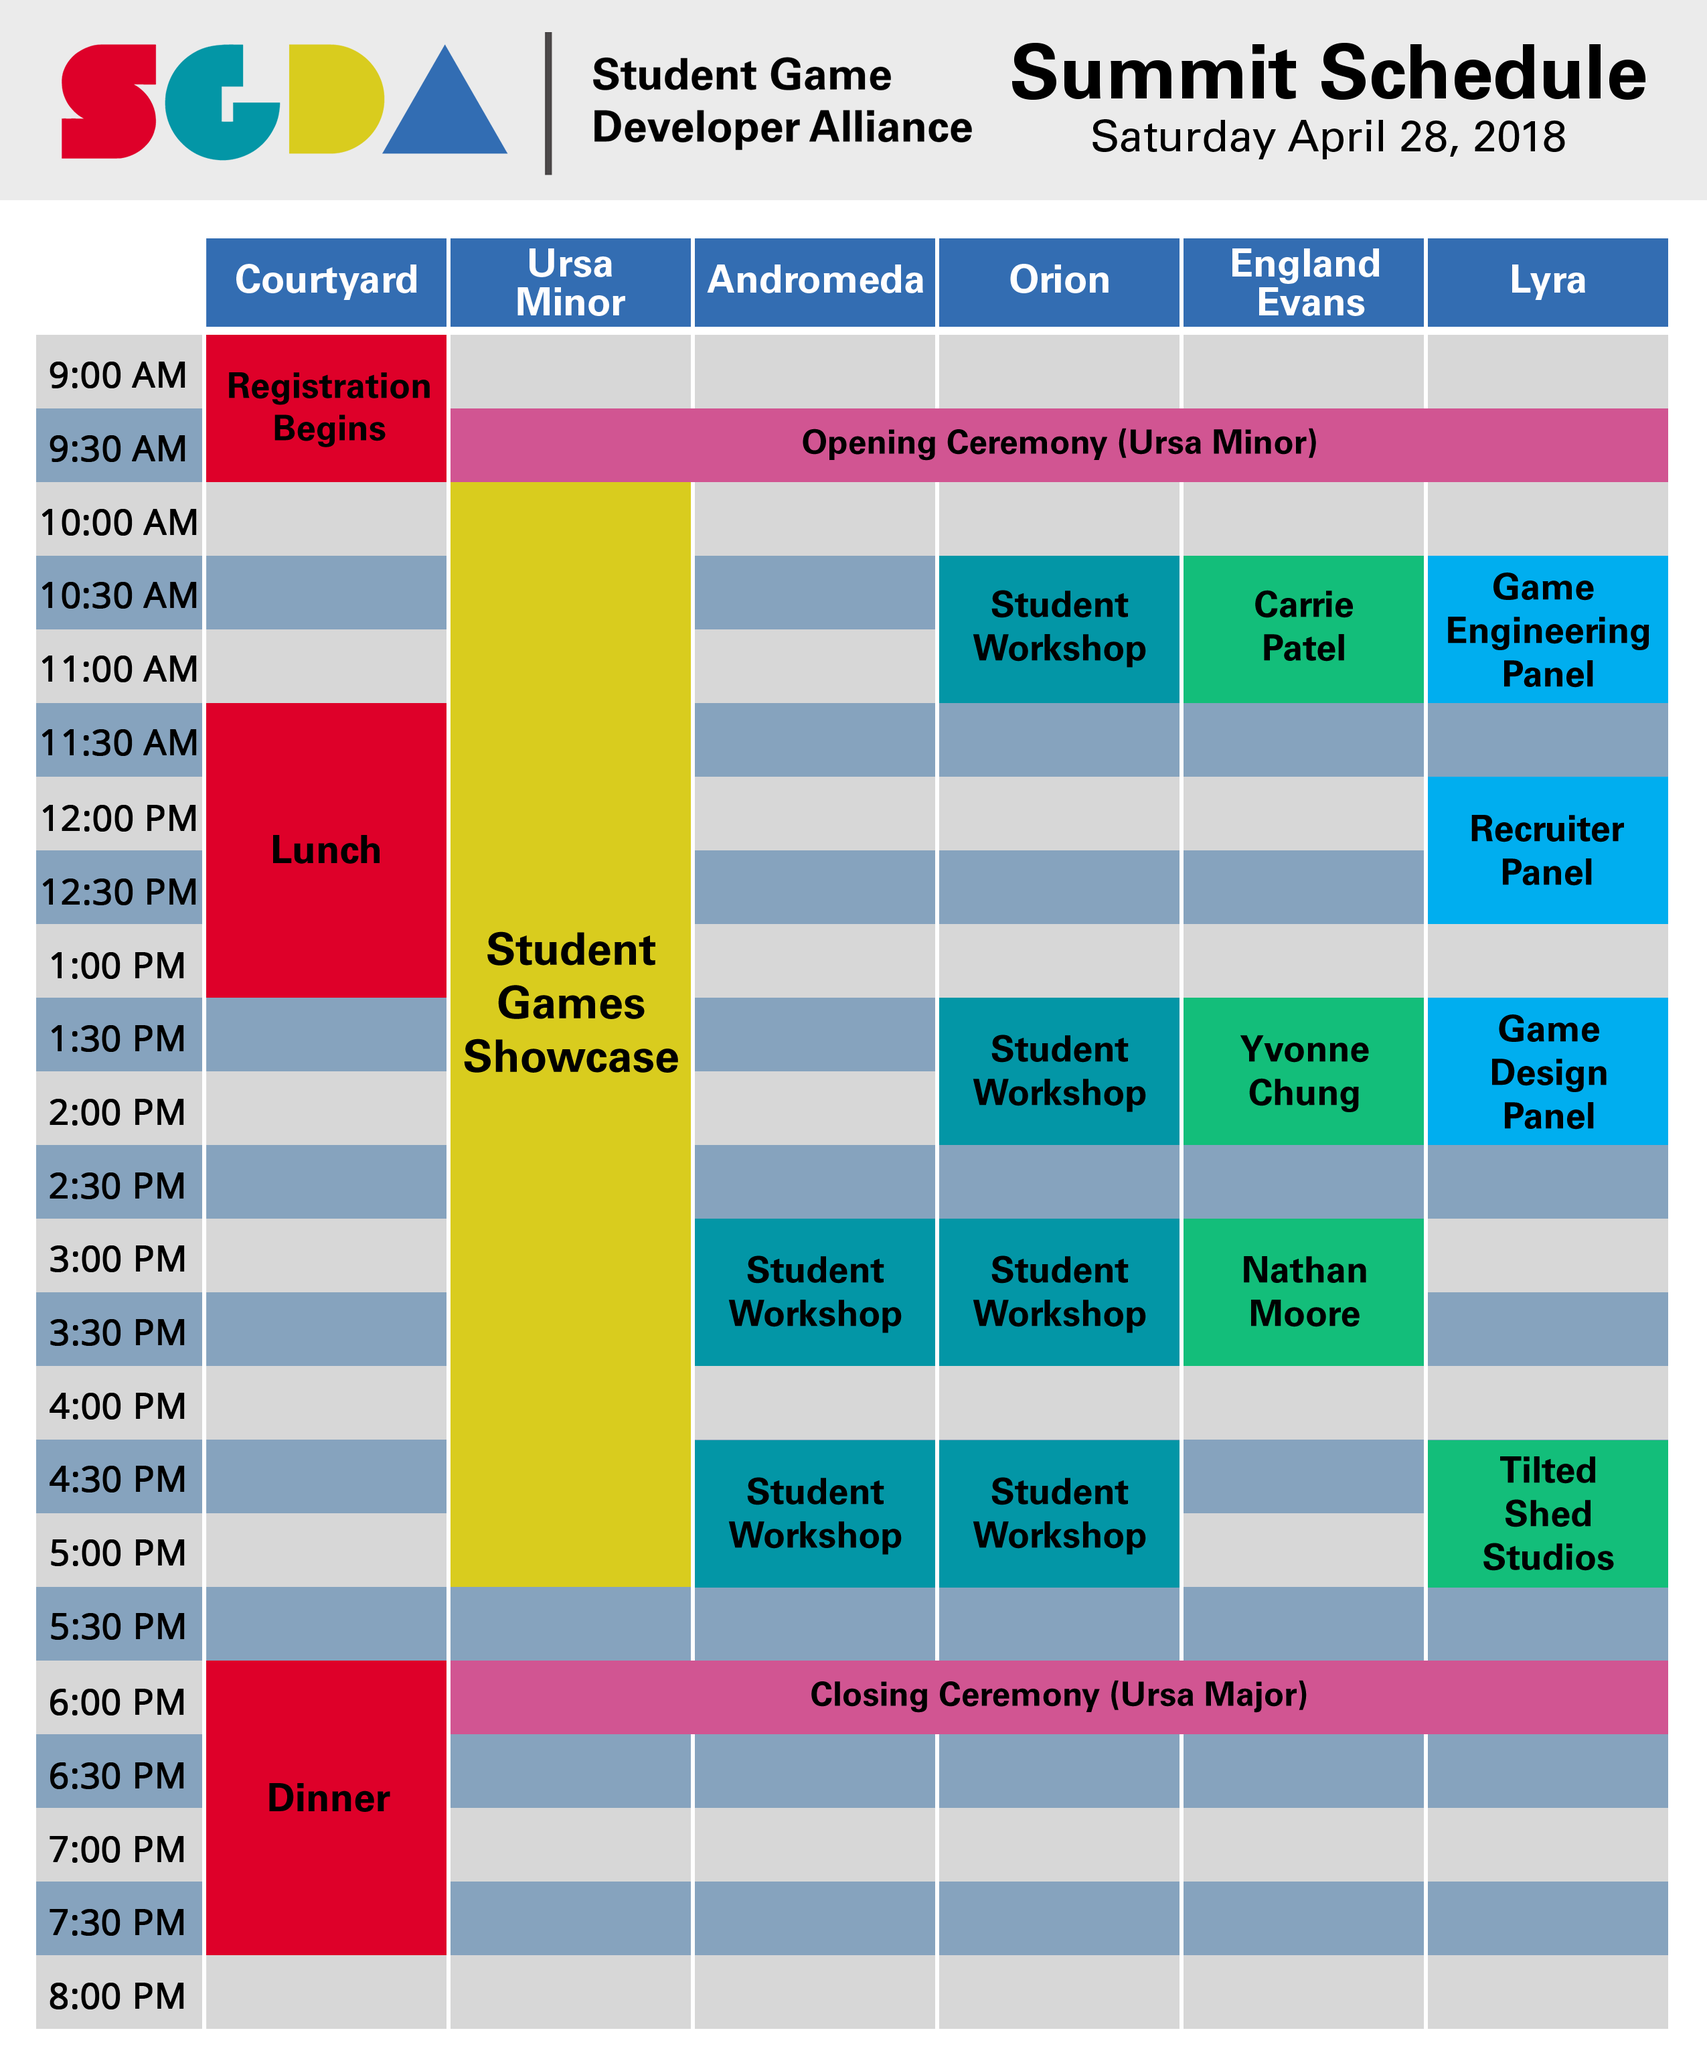
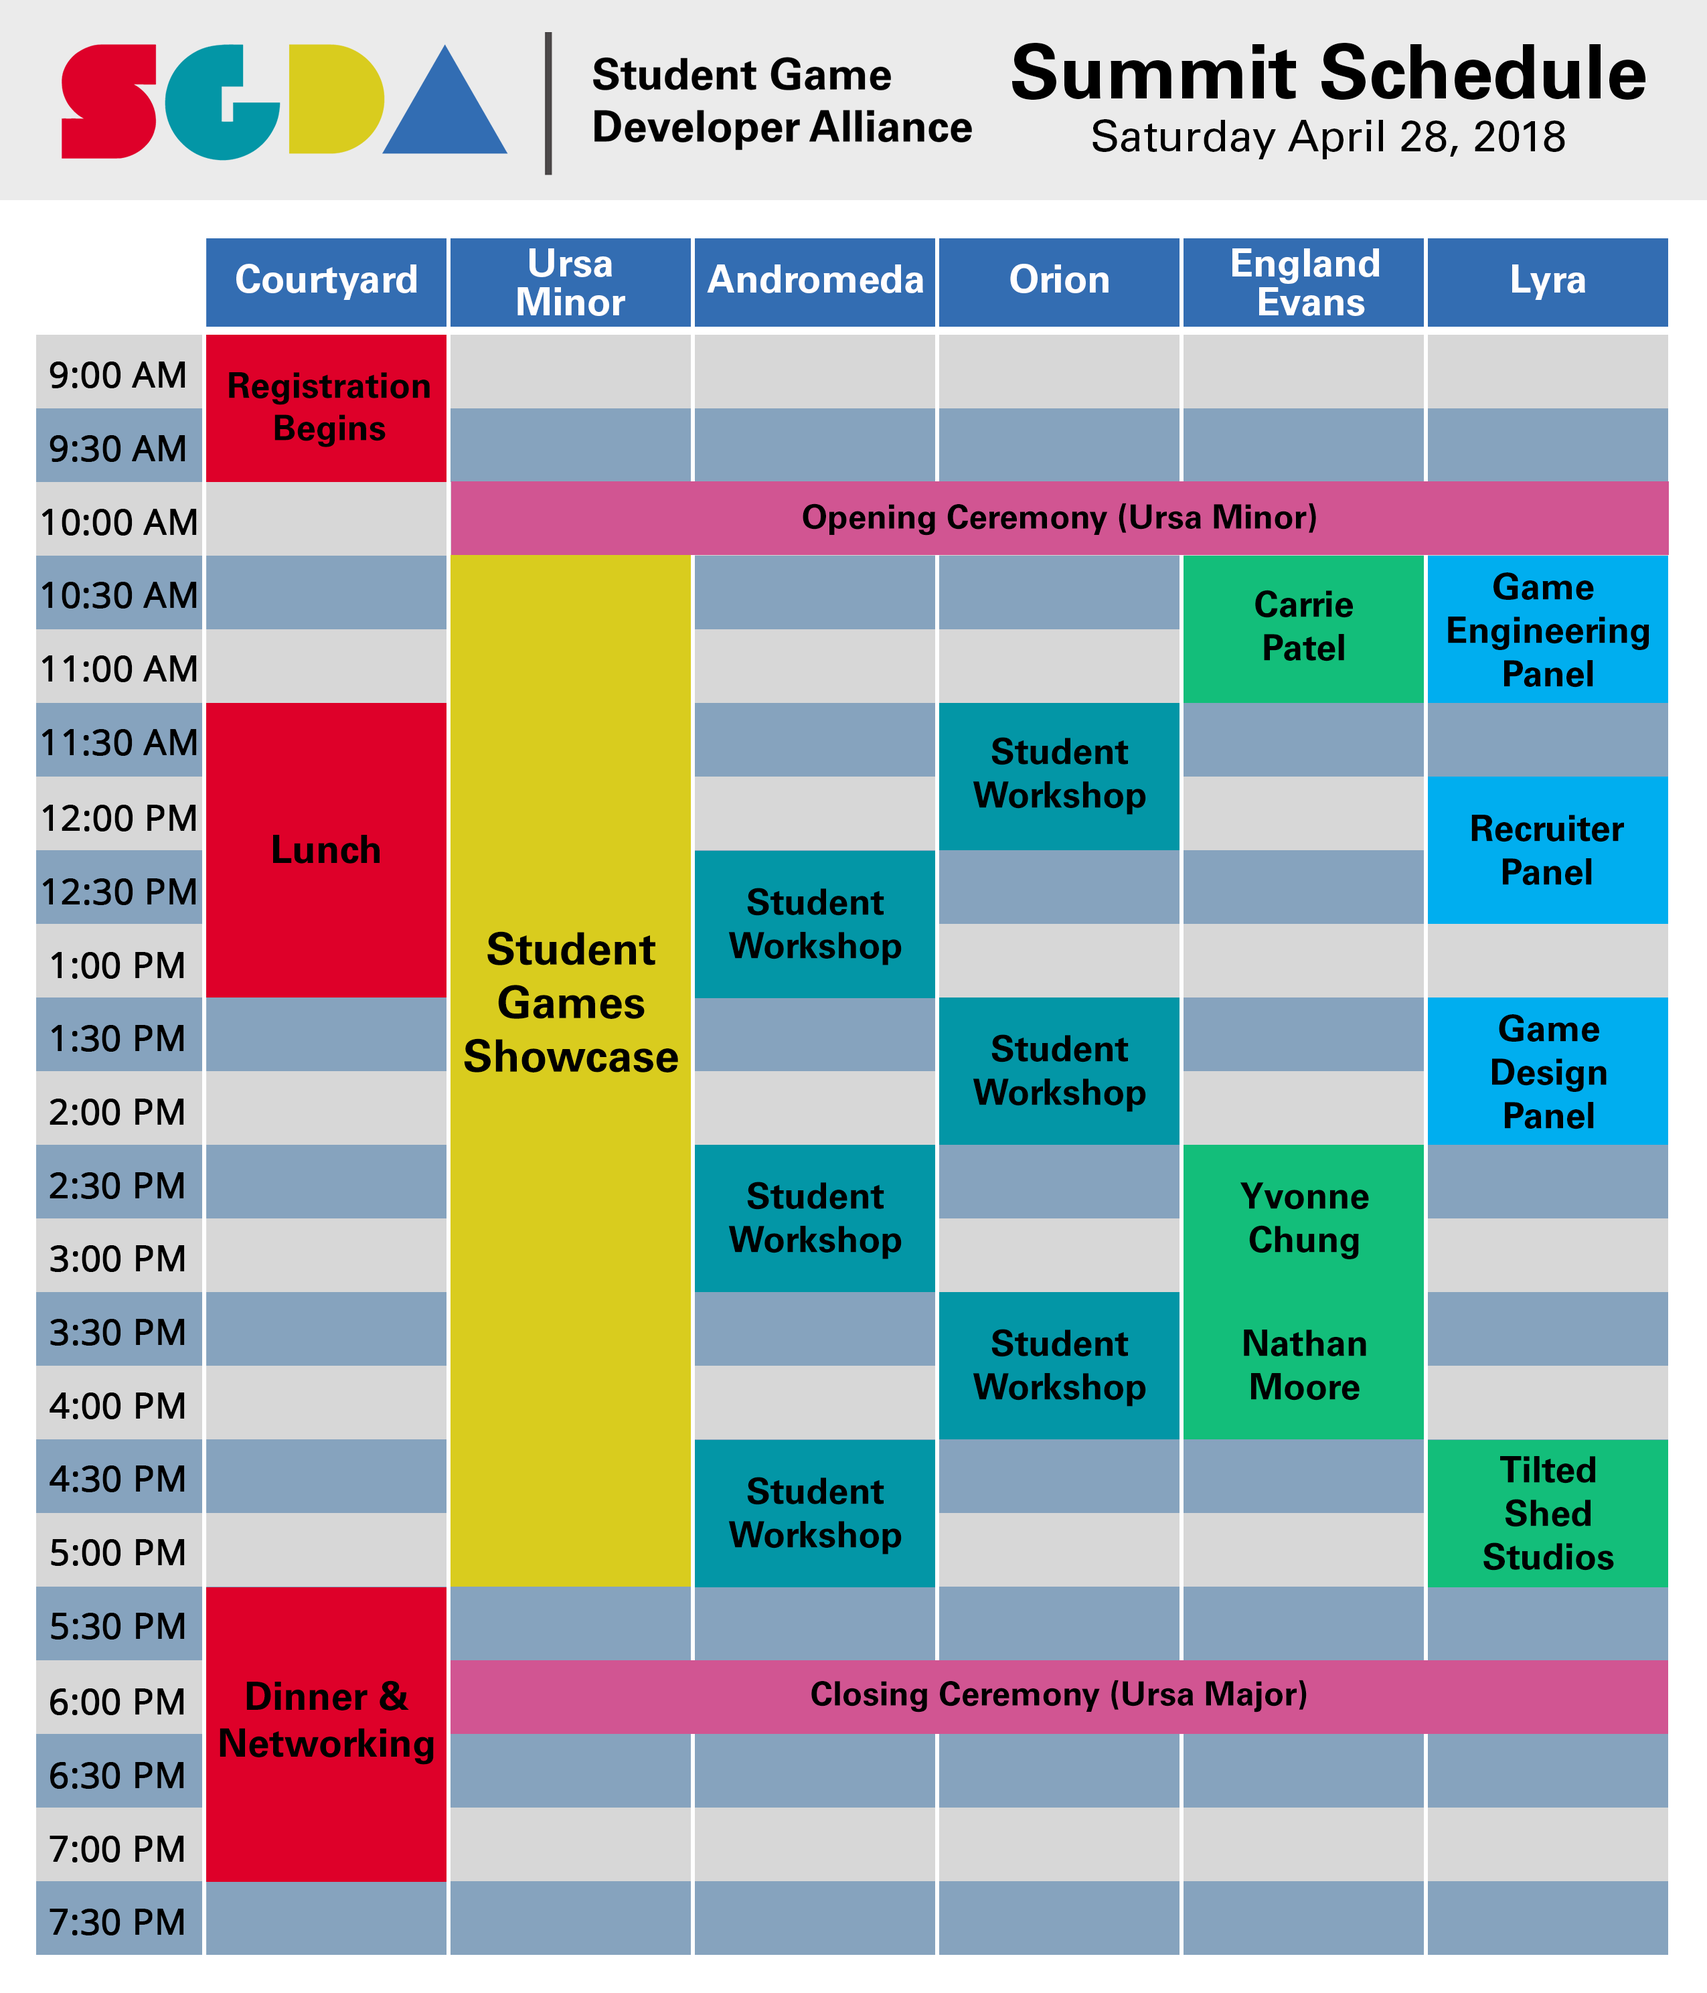
Added additional speaker info

diff --git a/speakers.html b/speakers.html
@@ -158,10 +158,10 @@
               </a>
             </div>
             <div class="col-md-3 col-5 d-block mx-auto">
-              <img src="img/speakers/anon_female.png" class="img-fluid p-2" alt="">
+              <img src="img/speakers/rachelle_davis.png" class="img-fluid p-2" alt="">
             </div>
             <div class="col-md-3 col-5 d-block mx-auto">
-              <img src="img/speakers/anon_male.png" class="img-fluid p-2" alt="">
+              <img src="img/speakers/tim_ford.png" class="img-fluid p-2" alt="">
             </div>
             <!--Carousel Event-->
             <div class="col-12">
@@ -205,13 +205,13 @@
                     </p>
                   </div>
                 </div>
-                <a class="carousel-control-prev" href="#carouselExampleControls" role="button" data-slide="prev">
+                <a class="carousel-control-prev" href="#carouselExampleControls" role="button" data-slide="prev" style="height: 50px">
                    <span>
                     <i class="fa fa-caret-left fa-3x"></i>
                   </span>
                   <span class="sr-only">Previous</span>
                 </a>
-                <a class="carousel-control-next" href="#carouselExampleControls" role="button" data-slide="next">
+                <a class="carousel-control-next" href="#carouselExampleControls" role="button" data-slide="next" style="height: 50px">
                   <!--<span class="carousel-control-next-icon" aria-hidden="true"></span>-->
                   <span>
                     <i class="fa fa-caret-right fa-3x"></i>
@@ -233,14 +233,48 @@
               </h6>
               <h6>
                 <b>Time:</b>
-                <span class="speaker-info ml-3">TBA</span>
+                <span class="speaker-info ml-3">10:30 AM - 11:30 AM</span>
               </h6>
 
             </div>
           </div>
         </div> <!-- .inner-outline -->
       </div> <!-- .speaker-card -->
-        
+
+<!--Speaker Card-->
+      <div class="speaker-card p-2 mt-4 mb-3 m-2 text-center col-lg-10 mx-auto  filter design">
+        <div class="inner-outline p-3" id="speaker">
+          <!--Speaker 1-->
+          <h4 class="text-center font-weight-bold"><i class="fa fa-quote-left"></i> Fundamentals of Branching Dialogue <i class="fa fa-quote-right"></i></h4>
+          <div class="row">
+            <div class="col-md-4 col-6 d-block mx-auto">
+              <img src="img/speakers/carrie_patel.png" class="img-fluid p-2" alt="">
+            </div>
+            <div class="col-12">
+              <h5 class="font-weight-bold mt-2 mb-1">Carrie Patel</h5>
+              <h6 class="font-weight-bold">(Novelist | Narrative Designer - Obsidian Entertainment)</h6>
+              <p class="speaker-info">Carrie Patel is a narrative designer and writer at Obsidian Entertainment, where she is currently Narrative Co-Lead on Pillars of Eternity II: Deadfire. Her writing credits include the Writers Guild of America-nominated Pillars of Eternity, the White March expansions, and Pillars of Eternity II: Deadfire.
+                  
+              She is also a novelist and the author of the science fantasy Recoletta trilogy, which includes The Buried Life, Cities and Thrones, and The Song of the Dead. Her short fiction has appeared in PodCastle and Beneath Ceaseless Skies.</p>
+                
+              <h6 class="font-weight-bold">DESCRIPTION</h6>
+              <p class="speaker-info">Branching dialogue is a staple of many RPGS, and one that allows designers to present players with gameplay choices, offer options for players' personal expression, and create a stronger sense of a player-driven story.
+                  
+              But authoring dialogue trees is complicated. Writers and designers must balance player freedom against the limits of scope, and they must present a consistent through-line even while offering players multiple avenues for navigating a dialogue.
+                  
+              This presentation will cover the basics of branching dialogue: why it's a useful design feature, how to implement it well, and what to look out for.</p>
+              <h6>
+                <b>Room:</b> <span class="speaker-info ml-2">England Evans</span>
+              </h6>
+              <h6>
+                <b>Time:</b>
+                <span class="speaker-info ml-3">10:30 AM - 11:30 AM</span>
+              </h6>
+            </div>
+          </div>
+        </div> <!-- .inner-outline -->
+      </div> <!-- .speaker-card -->
+
       <!--Speaker Card-->
       <div class="speaker-card p-2 mt-4 mb-3 m-2 text-center col-lg-10 mx-auto  filter design">
         <div class="inner-outline p-3" id="speaker">
@@ -260,10 +294,10 @@
               </a>
             </div>
             <div class="col-md-3 col-5 d-block mx-auto">
-              <img src="img/speakers/anon_female.png" class="img-fluid p-2" alt="">
+              <img src="img/speakers/benson_russel.png" class="img-fluid p-2" alt="">
             </div>
             <div class="col-md-3 col-5 d-block mx-auto">
-              <img src="img/speakers/anon_male.png" class="img-fluid p-2" alt="">
+              <img src="img/speakers/craig_brown.png" class="img-fluid p-2" alt="">
             </div>
             <!--Carousel Event-->
             <div class="col-12">
@@ -300,13 +334,13 @@
                       Her short fiction has appeared in PodCastle and Beneath Ceaseless Skies.</p>
                   </div>
                 </div>
-                <a class="carousel-control-prev mt-5" href="#carouselExampleControls-2" role="button" data-slide="prev">
+                <a class="carousel-control-prev" href="#carouselExampleControls-2" role="button" data-slide="prev" style="height: 50px">
                   <span>
                     <i class="fa fa-caret-left fa-3x"></i>
                   </span>
                   <span class="sr-only">Previous</span>
                 </a>
-                <a class="carousel-control-next mt-5" href="#carouselExampleControls-2" role="button" data-slide="next">
+                <a class="carousel-control-next" href="#carouselExampleControls-2" role="button" data-slide="next" style="height: 50px">
                    <span>
                     <i class="fa fa-caret-right fa-3x"></i>
                   </span>
@@ -328,7 +362,7 @@
               </h6>
               <h6>
                 <b>Time:</b>
-                <span class="speaker-info ml-3">TBA</span>
+                <span class="speaker-info ml-3">1:30 PM - 2:30 PM</span>
               </h6>
             </div>
           </div>
@@ -339,7 +373,59 @@
       <div class="speaker-card p-2 mt-4 mb-3 m-2 text-center col-lg-10 mx-auto  filter art">
         <div class="inner-outline p-3" id="speaker">
           <!--Speaker 1-->
-          <h4 class="text-center font-weight-bold"><i class="fa fa-paint-brush"></i> Founding an Indie Studio <i class="fa fa-paint-brush"></i></h4>
+          <h4 class="text-center font-weight-bold"><i class="fa fa-angle-double-right"></i> Fundamentals of UI/UX Design in Video Games <i class="fa fa-angle-double-left"></i></h4>
+          <div class="row">
+            <div class="col-md-4 col-6 d-block mx-auto">
+              <img src="img/speakers/yvonne_chung.png" class="img-fluid p-2" alt="">
+            </div>
+            <div class="col-12">
+              <h5 class="font-weight-bold mt-2 mb-1">Yvonne Chung</h5>
+              <h6 class="font-weight-bold">(Associate Art Director UI/UX - Blind Squirrel Games)</h6>
+              <p class="speaker-info">As one of the original employees at Blind Squirrel Games, Yvonne is currently the Associate UI/UX Director for Blind Squirrel's Art Team. Yvonne’s day to day has her hands in the development of multiple titles, management of the UI/UX Team and working closely with Blind Squirrel's executive team on any department needs. Outside of Blind Squirrel Games, Yvonne is one of the hosts for the well-known weekly event “Beer Wednesday Orange County” which is a great event for networking in the game development industry.</p>
+
+              <h6>
+                <b>Room:</b> <span class="speaker-info ml-2">England Evans</span>
+              </h6>
+              <h6>
+                <b>Time:</b>
+                <span class="speaker-info ml-3">2:30 PM - 3:30 PM</span>
+              </h6>
+            </div>
+          </div>
+        </div> <!-- .inner-outline -->
+      </div> <!-- .speaker-card -->
+        
+      <!--Speaker Card-->
+      <div class="speaker-card p-2 mt-4 mb-3 m-2 text-center col-lg-10 mx-auto  filter production">
+        <div class="inner-outline p-3" id="speaker">
+          <!--Speaker 1-->
+          <h4 class="text-center font-weight-bold"><i class="fa fa-wrench"></i> Ok, So Fix It... <i class="fa fa-wrench"></i></h4>
+          <div class="row">
+            <div class="col-md-4 col-6 d-block mx-auto">
+              <img src="img/speakers/nathan_moore.png" class="img-fluid p-2" alt="">
+            </div>
+            <div class="col-12">
+              <h5 class="font-weight-bold mt-2 mb-1">Nathan Moore</h5>
+              <h6 class="font-weight-bold">(Production Coordinator - Blind Squirrel Games)</h6>
+              <p class="speaker-info">Nathan is currently a Production Coordinator working on several titles for Blind Squirrel Games. Nathan has 6 years of experience leading student game developer teams including producing four student projects. He was also an original member of the executive board and second president for CSULB’s Video Game Developer Association. After college, Nathan started a small game studio with friends and continues to build strong relationships with the industry and student organizations.</p>
+
+              <h6>
+                <b>Room:</b> <span class="speaker-info ml-2">England Evans</span>
+              </h6>
+              <h6>
+                <b>Time:</b>
+                <span class="speaker-info ml-3">3:30 PM - 4:30 PM</span>
+              </h6>
+            </div>
+          </div>
+        </div> <!-- .inner-outline -->
+      </div> <!-- .speaker-card -->
+        
+      <!--Speaker Card-->
+      <div class="speaker-card p-2 mt-4 mb-3 m-2 text-center col-lg-10 mx-auto  filter art">
+        <div class="inner-outline p-3" id="speaker">
+          <!--Speaker 1-->
+          <h4 class="text-center font-weight-bold"><i class="fa fa-paint-brush"></i> The Art of Starting Indie <i class="fa fa-paint-brush"></i></h4>
           <div class="row">
             <div class="col-md-4 col-6 d-block mx-auto">
               <img src="img/speakers/tilted_shed.png" class="img-fluid" alt="">
@@ -352,45 +438,11 @@
               Currently Tilted Shed Studios is teaming up with Mira Prism, an affordable and innovative augmented reality device that works in conjunction with your smartphone to create a fully interactive experience with the games you play. The goal is to develop Arklight7 an AR game that combines the uses of space and community for the Smithsonian American Art Museum.</p>
 
               <h6>
-                <b>Room:</b> <span class="speaker-info ml-2">England Evans</span>
+                <b>Room:</b> <span class="speaker-info ml-2">Lyra</span>
               </h6>
               <h6>
                 <b>Time:</b>
-                <span class="speaker-info ml-3">TBA</span>
-              </h6>
-            </div>
-          </div>
-        </div> <!-- .inner-outline -->
-      </div> <!-- .speaker-card -->
-
-      <!--Speaker Card-->
-      <div class="speaker-card p-2 mt-4 mb-3 m-2 text-center col-lg-10 mx-auto  filter design">
-        <div class="inner-outline p-3" id="speaker">
-          <!--Speaker 1-->
-          <h4 class="text-center font-weight-bold"><i class="fa fa-quote-left"></i> Fundamentals of Branching Dialogue <i class="fa fa-quote-right"></i></h4>
-          <div class="row">
-            <div class="col-md-4 col-6 d-block mx-auto">
-              <img src="img/speakers/carrie_patel.png" class="img-fluid p-2" alt="">
-            </div>
-            <div class="col-12">
-              <h5 class="font-weight-bold mt-2 mb-1">Carrie Patel</h5>
-              <h6 class="font-weight-bold">(Novelist | Narrative Designer - Obsidian Entertainment)</h6>
-              <p class="speaker-info">Carrie Patel is a narrative designer and writer at Obsidian Entertainment, where she is currently Narrative Co-Lead on Pillars of Eternity II: Deadfire. Her writing credits include the Writers Guild of America-nominated Pillars of Eternity, the White March expansions, and Pillars of Eternity II: Deadfire.
-                  
-              She is also a novelist and the author of the science fantasy Recoletta trilogy, which includes The Buried Life, Cities and Thrones, and The Song of the Dead. Her short fiction has appeared in PodCastle and Beneath Ceaseless Skies.</p>
-                
-              <h6 class="font-weight-bold">DESCRIPTION</h6>
-              <p class="speaker-info">Branching dialogue is a staple of many RPGS, and one that allows designers to present players with gameplay choices, offer options for players' personal expression, and create a stronger sense of a player-driven story.
-                  
-              But authoring dialogue trees is complicated. Writers and designers must balance player freedom against the limits of scope, and they must present a consistent through-line even while offering players multiple avenues for navigating a dialogue.
-                  
-              This presentation will cover the basics of branching dialogue: why it's a useful design feature, how to implement it well, and what to look out for.</p>
-              <h6>
-                <b>Room:</b> <span class="speaker-info ml-2">England Evans</span>
-              </h6>
-              <h6>
-                <b>Time:</b>
-                <span class="speaker-info ml-3">TBA</span>
+                <span class="speaker-info ml-3">4:30 PM - 5:30 PM</span>
               </h6>
             </div>
           </div>
